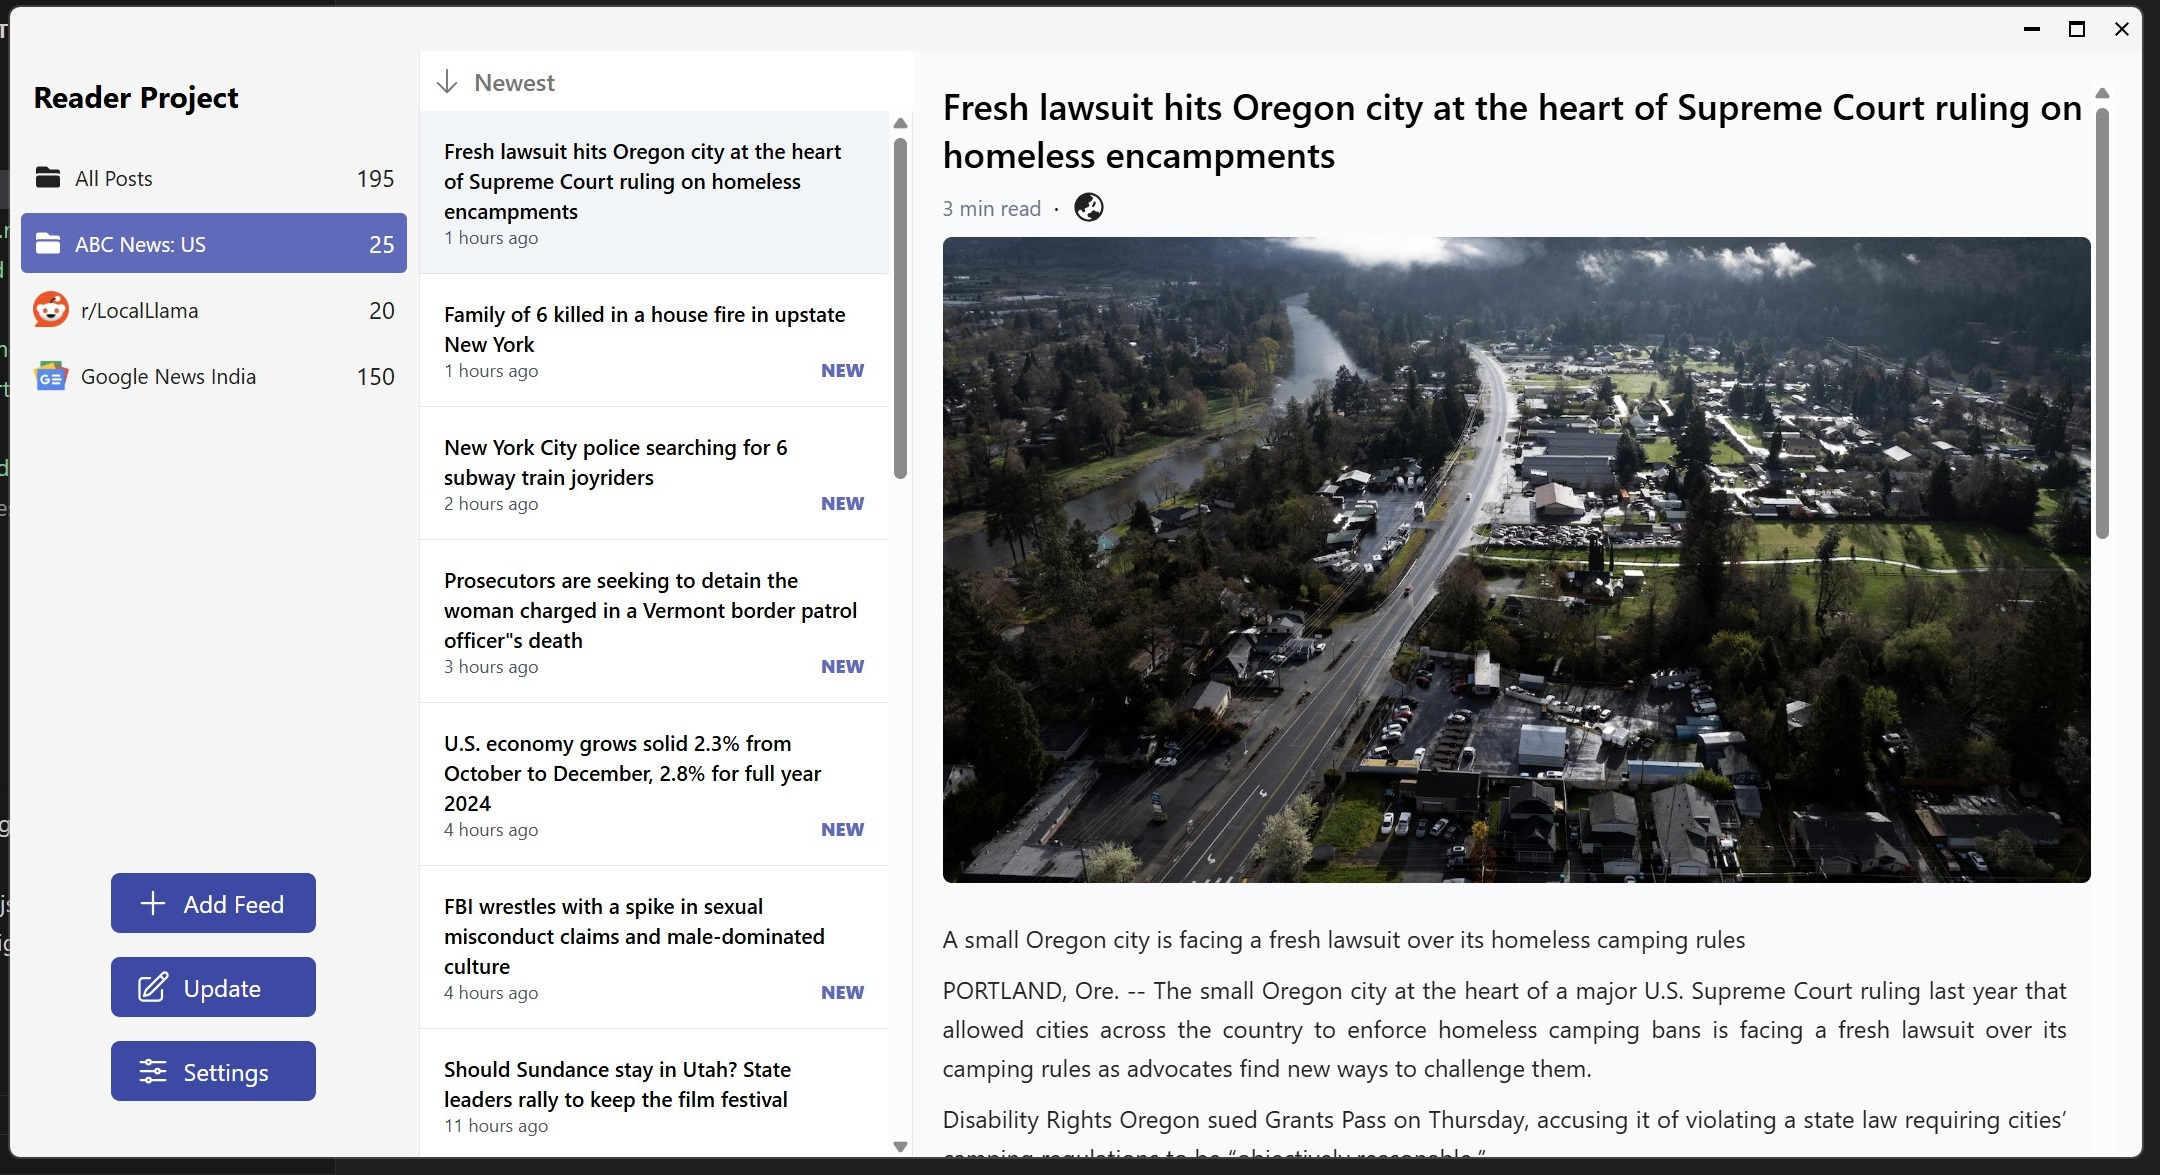
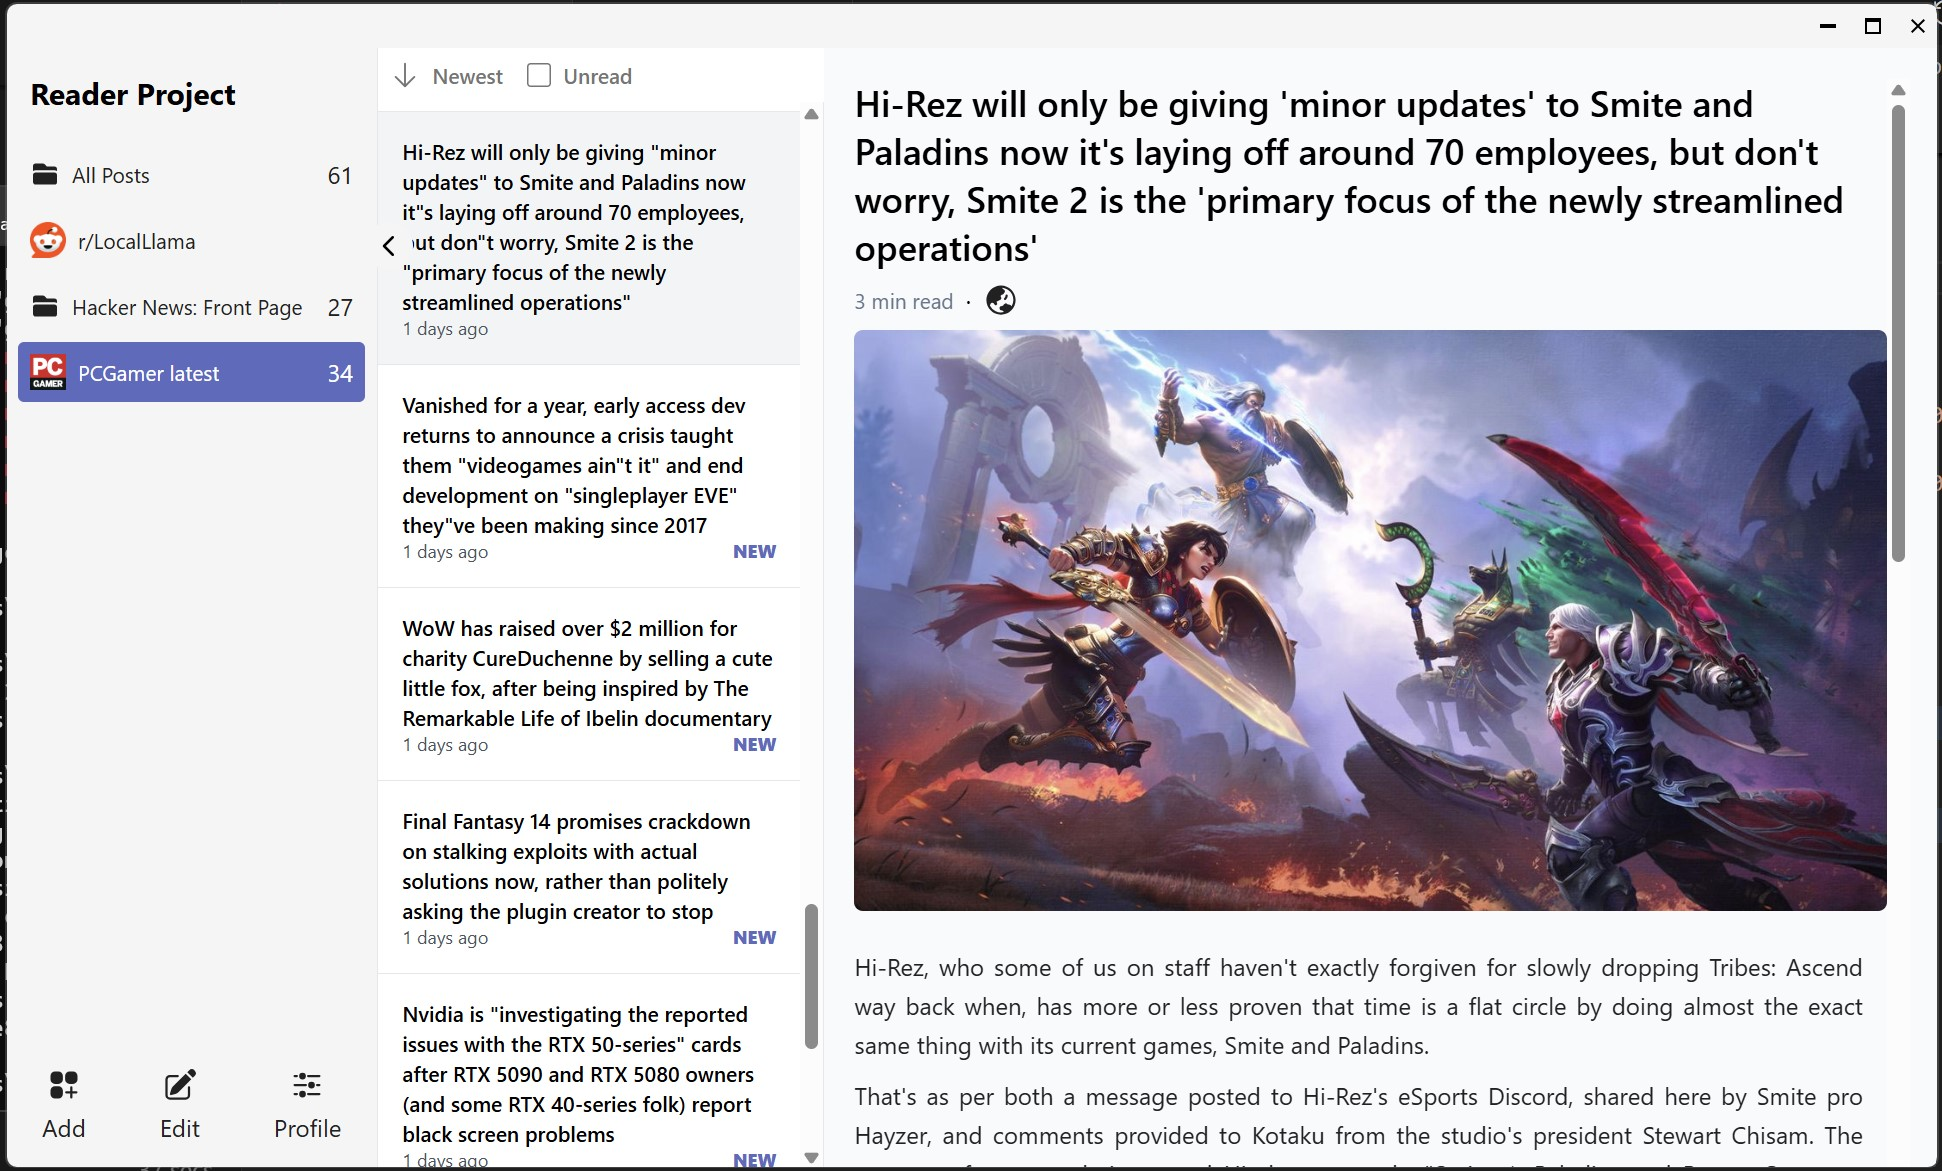
updated screenshot, fixed add/refresh post, improve feed buttons

diff --git a/src/lib/feed/feed_options.svelte b/src/lib/feed/feed_options.svelte
@@ -1,0 +1,75 @@
+<script>
+    import {
+        selected_feed_id,
+        is_adding_new_feed,
+        minimize_feeds,
+    } from "$lib/store";
+</script>
+
+{#if !$minimize_feeds}
+    <div class="h-36 flex flex-row justify-center items-center">
+        <!-- Add Button -->
+        <button
+            onclick={() => {
+                $is_adding_new_feed = true;
+                document
+                    .getElementById("addFeedModal")
+                    ?.classList.remove("hidden");
+            }}
+            class="
+          m-2 w-1/3
+          flex flex-col gap-1
+          items-center
+          text-text1 py-2 px-4 rounded-md hover:text-primary1"
+        >
+            <!-- Plus Icon -->
+            <svg xmlns="http://www.w3.org/2000/svg" viewBox="0 0 24 24" fill="currentColor" class="size-6">
+                <path d="M6 3a3 3 0 0 0-3 3v2.25a3 3 0 0 0 3 3h2.25a3 3 0 0 0 3-3V6a3 3 0 0 0-3-3H6ZM15.75 3a3 3 0 0 0-3 3v2.25a3 3 0 0 0 3 3H18a3 3 0 0 0 3-3V6a3 3 0 0 0-3-3h-2.25ZM6 12.75a3 3 0 0 0-3 3V18a3 3 0 0 0 3 3h2.25a3 3 0 0 0 3-3v-2.25a3 3 0 0 0-3-3H6ZM17.625 13.5a.75.75 0 0 0-1.5 0v2.625H13.5a.75.75 0 0 0 0 1.5h2.625v2.625a.75.75 0 0 0 1.5 0v-2.625h2.625a.75.75 0 0 0 0-1.5h-2.625V13.5Z" />
+              </svg>              
+            Add
+        </button>
+
+        <!-- Edit Button -->
+        <button
+            disabled={$selected_feed_id == -1}
+            onclick={() => {
+                $is_adding_new_feed = false;
+                document
+                    .getElementById("addFeedModal")
+                    ?.classList.remove("hidden");
+            }}
+            class="
+            m-2 w-1/3 
+            flex flex-col gap-1
+            items-center
+            text-text1 py-2 px-4 rounded-md
+            {$selected_feed_id == -1? "text-slate-300 cursor-not-allowed": "hover:text-primary1"}
+            "
+        >
+            <!-- Plus Icon -->
+            <svg xmlns="http://www.w3.org/2000/svg" viewBox="0 0 24 24" fill="currentColor" class="size-6">
+                <path d="M21.731 2.269a2.625 2.625 0 0 0-3.712 0l-1.157 1.157 3.712 3.712 1.157-1.157a2.625 2.625 0 0 0 0-3.712ZM19.513 8.199l-3.712-3.712-8.4 8.4a5.25 5.25 0 0 0-1.32 2.214l-.8 2.685a.75.75 0 0 0 .933.933l2.685-.8a5.25 5.25 0 0 0 2.214-1.32l8.4-8.4Z" />
+                <path d="M5.25 5.25a3 3 0 0 0-3 3v10.5a3 3 0 0 0 3 3h10.5a3 3 0 0 0 3-3V13.5a.75.75 0 0 0-1.5 0v5.25a1.5 1.5 0 0 1-1.5 1.5H5.25a1.5 1.5 0 0 1-1.5-1.5V8.25a1.5 1.5 0 0 1 1.5-1.5h5.25a.75.75 0 0 0 0-1.5H5.25Z" />
+            </svg>
+            Edit
+        </button>
+
+        <button
+            onclick={() =>
+                document
+                    .getElementById("settingModal")
+                    ?.classList.remove("hidden")}
+            class="
+          m-2 w-1/3
+          flex flex-col gap-1
+          items-center
+          text-text1 py-2 px-4 rounded-md hover:text-primary1"
+        >
+            <!-- Settings Icon -->
+            <svg xmlns="http://www.w3.org/2000/svg" viewBox="0 0 24 24" fill="currentColor" class="size-6">
+                <path d="M18.75 12.75h1.5a.75.75 0 0 0 0-1.5h-1.5a.75.75 0 0 0 0 1.5ZM12 6a.75.75 0 0 1 .75-.75h7.5a.75.75 0 0 1 0 1.5h-7.5A.75.75 0 0 1 12 6ZM12 18a.75.75 0 0 1 .75-.75h7.5a.75.75 0 0 1 0 1.5h-7.5A.75.75 0 0 1 12 18ZM3.75 6.75h1.5a.75.75 0 1 0 0-1.5h-1.5a.75.75 0 0 0 0 1.5ZM5.25 18.75h-1.5a.75.75 0 0 1 0-1.5h1.5a.75.75 0 0 1 0 1.5ZM3 12a.75.75 0 0 1 .75-.75h7.5a.75.75 0 0 1 0 1.5h-7.5A.75.75 0 0 1 3 12ZM9 3.75a2.25 2.25 0 1 0 0 4.5 2.25 2.25 0 0 0 0-4.5ZM12.75 12a2.25 2.25 0 1 1 4.5 0 2.25 2.25 0 0 1-4.5 0ZM9 15.75a2.25 2.25 0 1 0 0 4.5 2.25 2.25 0 0 0 0-4.5Z" />
+              </svg>              
+            Profile
+        </button>
+    </div>
+{/if}

diff --git a/src/lib/feed/feed_modal.svelte b/src/lib/feed/feed_modal.svelte
@@ -1,11 +1,13 @@
 <script>
+  import { NO_OF_POST_PULLS_PER_TIME } from "$lib/constants";
   import {
     fetch_feed,
     add_feed,
     update_feed,
     add_posts,
     fetch_unread_post_counts,
-    delete_feed
+    delete_feed,
+    fetch_posts,
   } from "$lib/db";
   import {
     feeds_store,
@@ -13,6 +15,9 @@
     is_loading_posts,
     is_adding_new_feed,
     feed_unread_post_count,
+    posts_by_feed_store,
+    posts_sort_by,
+    unread_posts_only,
   } from "$lib/store";
   import { fetchRSSMetadata } from "$lib/utils";
 
@@ -22,27 +27,27 @@
   let feedPosts = $state([]);
   let feedId = $state(-1);
 
-  is_adding_new_feed.subscribe((is_adding_feed)=>{
-    if(is_adding_feed){
-      feedName = ""
-      feedURL = ""
-      feedIcon = ""
+  is_adding_new_feed.subscribe((is_adding_feed) => {
+    if (is_adding_feed) {
+      feedName = "";
+      feedURL = "";
+      feedIcon = "";
     }
-  })
+  });
 
-  selected_feed_id.subscribe((feed_id)=>{
-    if(!$is_adding_new_feed){
-      for(const feed of $feeds_store){
-        if(feed.id == feed_id){
+  selected_feed_id.subscribe((feed_id) => {
+    if (!$is_adding_new_feed) {
+      for (const feed of $feeds_store) {
+        if (feed.id == feed_id) {
           feedName = feed.title;
           feedURL = feed.url;
           return;
         }
       }
     }
-  })
+  });
 
-  async function updateFeed(){
+  async function updateFeed() {
     await update_feed(feedName, $selected_feed_id);
     $feeds_store = await fetch_feed();
     feedURL = "";
@@ -51,7 +56,7 @@
     feedPosts = [];
   }
 
-  async function deleteFeed(){
+  async function deleteFeed() {
     await delete_feed($selected_feed_id);
     $feeds_store = await fetch_feed();
     feedURL = "";
@@ -72,13 +77,12 @@
       $feeds_store = [
         ...$feeds_store,
         {
-          id: $feeds_store.length + 1,
+          id: feedId,
           title: feedName,
           url: feedURL,
           favicon: feedIcon,
         },
       ];
-      $selected_feed_id = feedId;
 
       // Insert posts into DB
       if (feedPosts) {
@@ -94,7 +98,18 @@
         await add_posts(posts);
       }
       $is_loading_posts = true;
+
+      $posts_by_feed_store[feedId] = await fetch_posts(
+        $posts_sort_by,
+        null,
+        feedId,
+        0,
+        NO_OF_POST_PULLS_PER_TIME,
+        $unread_posts_only,
+      );
       $feed_unread_post_count = await fetch_unread_post_counts();
+      $selected_feed_id = feedId;
+
       $is_loading_posts = false;
       feedURL = "";
       feedName = "";
@@ -158,7 +173,7 @@
       <button
         class="px-4 py-2 bg-blue-500 text-white rounded-lg hover:bg-blue-600"
         onclick={async () => {
-          if($is_adding_new_feed){
+          if ($is_adding_new_feed) {
             await addFeed();
           } else {
             await updateFeed();
@@ -166,13 +181,13 @@
           document.getElementById("addFeedModal").classList.add("hidden");
         }}
       >
-      {#if $is_adding_new_feed}
-        Add
-      {:else}
-        Save
-      {/if}
+        {#if $is_adding_new_feed}
+          Add
+        {:else}
+          Save
+        {/if}
       </button>
-      
+
       <button
         class="px-4 py-2 bg-red-500 text-white rounded-lg hover:bg-red-800"
         onclick={async () => {
@@ -182,7 +197,6 @@
       >
         Delete
       </button>
-
 
       <button
         class="px-4 py-2 text-gray-600 bg-gray-200 rounded-lg hover:bg-gray-300"

diff --git a/src/lib/feed/rss_feed.svelte b/src/lib/feed/rss_feed.svelte
@@ -4,11 +4,10 @@
 
   import {
     feeds_store,
-    selected_feed_id,
-    is_adding_new_feed,
     minimize_feeds,
   } from "$lib/store";
   import SettingsModal from "$lib/components/settingsModal.svelte";
+    import FeedOptions from "./feed_options.svelte";
 </script>
 
 <FeedModal />
@@ -59,94 +58,5 @@
     {/each}
   </ul>
 
-  {#if !$minimize_feeds}
-    <div class="h-72 flex flex-col justify-center items-center">
-      <button
-        onclick={() => {
-          $is_adding_new_feed = true;
-          document.getElementById("addFeedModal")?.classList.remove("hidden");
-        }}
-        class="
-          m-2 w-6/12
-          flex
-          gap-2 px-4 py-2
-          bg-primary1 text-white py-2 px-4 rounded-md hover:bg-primary2"
-      >
-        <!-- Plus Icon -->
-        <svg
-          xmlns="http://www.w3.org/2000/svg"
-          fill="none"
-          viewBox="0 0 24 24"
-          stroke-width="1.5"
-          stroke="currentColor"
-          class="size-6"
-        >
-          <path
-            stroke-linecap="round"
-            stroke-linejoin="round"
-            d="M12 4.5v15m7.5-7.5h-15"
-          />
-        </svg>
-        Add Feed
-      </button>
-
-      {#if $selected_feed_id != -1}
-        <button
-          onclick={() => {
-            $is_adding_new_feed = false;
-            document.getElementById("addFeedModal")?.classList.remove("hidden");
-          }}
-          class="
-            m-2 w-6/12
-            flex
-            gap-2 px-4 py-2
-            bg-primary1 text-white py-2 px-4 rounded-md hover:bg-primary2"
-        >
-          <!-- Plus Icon -->
-          <svg
-            xmlns="http://www.w3.org/2000/svg"
-            fill="none"
-            viewBox="0 0 24 24"
-            stroke-width="1.5"
-            stroke="currentColor"
-            class="size-6"
-          >
-            <path
-              stroke-linecap="round"
-              stroke-linejoin="round"
-              d="m16.862 4.487 1.687-1.688a1.875 1.875 0 1 1 2.652 2.652L10.582 16.07a4.5 4.5 0 0 1-1.897 1.13L6 18l.8-2.685a4.5 4.5 0 0 1 1.13-1.897l8.932-8.931Zm0 0L19.5 7.125M18 14v4.75A2.25 2.25 0 0 1 15.75 21H5.25A2.25 2.25 0 0 1 3 18.75V8.25A2.25 2.25 0 0 1 5.25 6H10"
-            />
-          </svg>
-          Update
-        </button>
-      {/if}
-
-      <button
-        onclick={() =>
-          document.getElementById("settingModal")?.classList.remove("hidden")}
-        class="
-          m-2 w-6/12
-          flex
-          gap-2 px-4 py-2
-          bg-primary1 text-white py-2 px-4 rounded-md hover:bg-primary2"
-      >
-        <!-- Settings Icon -->
-        <svg
-          xmlns="http://www.w3.org/2000/svg"
-          fill="none"
-          viewBox="0 0 24 24"
-          stroke-width="1.5"
-          stroke="currentColor"
-          class="size-6"
-        >
-          <path
-            stroke-linecap="round"
-            stroke-linejoin="round"
-            d="M10.5 6h9.75M10.5 6a1.5 1.5 0 1 1-3 0m3 0a1.5 1.5 0 1 0-3 0M3.75 6H7.5m3 12h9.75m-9.75 0a1.5 1.5 0 0 1-3 0m3 0a1.5 1.5 0 0 0-3 0m-3.75 0H7.5m9-6h3.75m-3.75 0a1.5 1.5 0 0 1-3 0m3 0a1.5 1.5 0 0 0-3 0m-9.75 0h9.75"
-          />
-        </svg>
-        Settings
-      </button>
-    </div>
-  {/if}
+  <FeedOptions/>
 </div>

diff --git a/src/lib/db.ts b/src/lib/db.ts
@@ -15,7 +15,7 @@ export const fetch_feed = async () => {
 
 export const add_feed = async (title: String, url: String, favicon: String) => {
     const response = await db.execute(
-        "INSERT into feeds (title, url, favicon) VALUES ($1, $2, $3)",
+        "INSERT into feeds (title, url, favicon) VALUES ($1, $2, $3) RETURNING id",
         [title, url, favicon],
     );
     console.log("DB: ADD FEED")

diff --git a/src/lib/post/post_feed.svelte b/src/lib/post/post_feed.svelte
@@ -109,9 +109,7 @@
 </script>
 
 <div class="flex flex-col w-2/5">
-  {#if $filtered_posts?.length != 0}
-    <PostFilter />
-  {/if}
+  <PostFilter/>
 
   <div
     class="bg-background2 border-r {$filtered_posts?.length != 0
